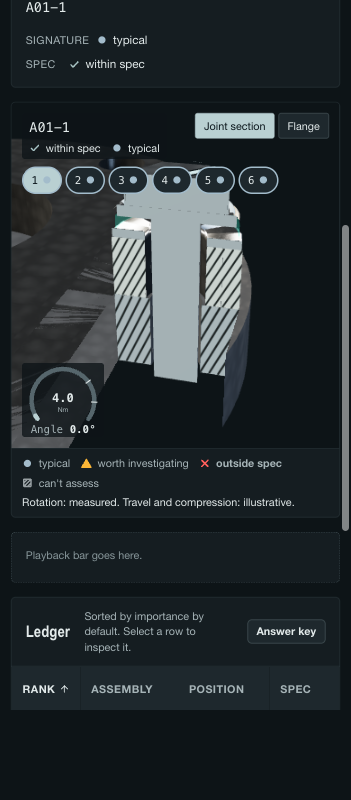
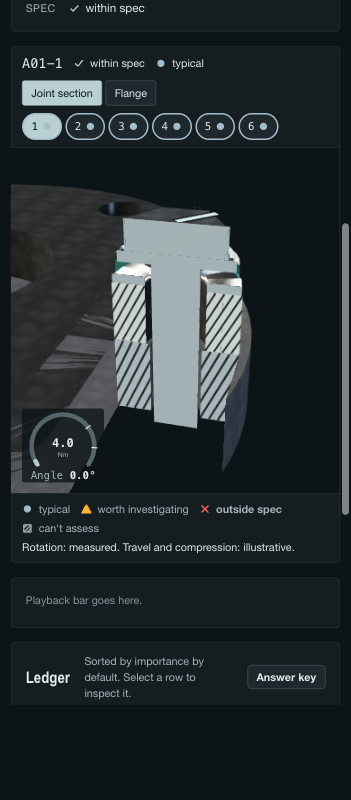
fix(torque): move joint header out of canvas, camera tween fixes, presetPose tests

diff --git a/apps/torque-signature-analyser/web/src/scene/CameraRig.jsx b/apps/torque-signature-analyser/web/src/scene/CameraRig.jsx
@@ -2,36 +2,7 @@ import { useEffect, useRef } from 'react';
 import { useFrame, useThree } from '@react-three/fiber';
 import { OrbitControls } from '@react-three/drei';
 import * as THREE from 'three';
-import { slotAngle, slotPosition } from './Flange.jsx';
-
-const FOV = 32;
-// Joint-section stack, local y: bolt tip -0.7 up to ~30% of the (shortened) socket, with a 10% margin.
-const STACK = { bottom: -0.7, top: 5.6, width: 3.6 };
-
-export function presetPose(preset, focus, aspect = 1.5) {
-  if (preset === 'section' && focus != null) {
-    const a = slotAngle(focus);
-    const P = slotPosition(focus);
-    const R = new THREE.Vector3(Math.cos(a), 0, Math.sin(a));
-    const T = new THREE.Vector3(-Math.sin(a), 0, Math.cos(a));
-    const h = (STACK.top - STACK.bottom) * 1.1;
-    const half = Math.tan((FOV * Math.PI) / 360);
-    const dist = Math.max(h / (2 * half), (STACK.width * 1.2) / (2 * half * aspect)) * 1.06;
-    // Cut side towards the viewer, a little elevation and a slight side turn for a 3/4 read.
-    const dir = T.clone().addScaledVector(R, 0.25).setY(0.55).normalize();
-    const target = P.clone().setY((STACK.top + STACK.bottom) / 2);
-    return { target, position: target.clone().addScaledVector(dir, dist) };
-  }
-  if (focus != null) {
-    // View from the cut side, aimed between the hub and the selected bolt so it sits inside the frame.
-    const a = slotAngle(focus);
-    const R = new THREE.Vector3(Math.cos(a), 0, Math.sin(a));
-    const T = new THREE.Vector3(-Math.sin(a), 0, Math.cos(a));
-    const target = R.clone().multiplyScalar(2.4).setY(1.8);
-    return { target, position: target.clone().addScaledVector(T, 17).addScaledVector(R, -4).setY(17) };
-  }
-  return { target: new THREE.Vector3(0, 1.5, 0), position: new THREE.Vector3(0, 20, 18) };
-}
+import { presetPose } from './camera.js';
 
 /** Bounded orbit (no pan, no auto-rotate) with preset moves. Orbiting never touches the cursor. */
 export default function CameraRig({ preset, focus, reducedMotion }) {
@@ -50,6 +21,7 @@ export default function CameraRig({ preset, focus, reducedMotion }) {
     if (!c) return;
     if (first.current || reducedMotion || resized) {
       first.current = false;
+      anim.current = null;
       camera.position.copy(to.position);
       c.target.copy(to.target);
       c.update();
@@ -59,6 +31,13 @@ export default function CameraRig({ preset, focus, reducedMotion }) {
     anim.current = { t: 0, fromPos: camera.position.clone(), fromTarget: c.target.clone(), to };
     invalidate();
   }, [preset, focus, aspect, reducedMotion, camera, invalidate]);
+
+  if (import.meta.env?.DEV && typeof window !== 'undefined') {
+    window.__tsaCam = () => ({
+      pos: camera.position.toArray(), target: controls.current?.target.toArray(), aspect, size: [size.width, size.height],
+      anim: Boolean(anim.current), expected: Object.fromEntries(Object.entries(presetPose(preset, focus, aspect)).map(([k, v]) => [k, v.toArray()])),
+    });
+  }
 
   useFrame((_, dt) => {
     const a = anim.current;
@@ -70,7 +49,7 @@ export default function CameraRig({ preset, focus, reducedMotion }) {
     c.target.lerpVectors(a.fromTarget, a.to.target, k);
     c.update();
     if (a.t >= 1) anim.current = null;
-    else invalidate();
+    invalidate(); // keep rendering every frame until the tween has landed, then one final frame
   });
 
   return (

diff --git a/apps/torque-signature-analyser/web/src/scene/JointScene.jsx b/apps/torque-signature-analyser/web/src/scene/JointScene.jsx
@@ -5,7 +5,7 @@ import * as THREE from 'three';
 import Bolt, { Washer, WASHER } from './Bolt.jsx';
 import Flange, { FLANGE, slotAngle, slotPosition } from './Flange.jsx';
 import CameraRig from './CameraRig.jsx';
-import Overlay, { JointStrip } from './Overlay.jsx';
+import Overlay, { JointHeader, JointStrip } from './Overlay.jsx';
 import { createMaterials, tokenColor } from './materials.js';
 import { boltSlots, jointPose, statusKind } from './kinematics.js';
 
@@ -162,6 +162,15 @@ function JointView({ result, selected, cursor, onSelect }) {
 
   return (
     <div className="joint-wrap">
+    <JointHeader
+      selected={selected}
+      preset={focus == null ? 'flange' : preset}
+      onPreset={setPreset}
+      slots={slots}
+      selectedId={selected?.id}
+      onSelect={onSelect}
+      note={note ?? (overflow.length ? `${overflow.length} extra bolt(s) in this assembly are not drawn. Use the ledger.` : null)}
+    />
     <div className="joint" ref={box}>
       <Canvas
         dpr={[1, 2]}
@@ -182,18 +191,7 @@ function JointView({ result, selected, cursor, onSelect }) {
           onSelect={onSelect}
         />
       </Canvas>
-      <Overlay
-        selected={selected}
-        pose={pose}
-        torqueMax={torqueMax}
-        spec={spec}
-        preset={focus == null ? 'flange' : preset}
-        onPreset={setPreset}
-        slots={slots}
-        selectedId={selected?.id}
-        onSelect={onSelect}
-        note={note ?? (overflow.length ? `${overflow.length} extra bolt(s) in this assembly are not drawn. Use the ledger.` : null)}
-      />
+      <Overlay pose={pose} torqueMax={torqueMax} spec={spec} />
     </div>
     <JointStrip />
     </div>

diff --git a/apps/torque-signature-analyser/web/src/scene/camera.js b/apps/torque-signature-analyser/web/src/scene/camera.js
@@ -1,0 +1,32 @@
+import * as THREE from 'three';
+import { slotAngle, slotPosition } from './flangeLayout.js';
+
+export const FOV = 32;
+// Joint-section stack, local y: bolt tip -0.7 up to ~30% of the (shortened) socket, with a 10% margin.
+export const STACK = { bottom: -0.7, top: 5.6, width: 3.6 };
+
+export function presetPose(preset, focus, aspect = 1.5) {
+  if (preset === 'section' && focus != null) {
+    const a = slotAngle(focus);
+    const P = slotPosition(focus);
+    const R = new THREE.Vector3(Math.cos(a), 0, Math.sin(a));
+    const T = new THREE.Vector3(-Math.sin(a), 0, Math.cos(a));
+    const h = (STACK.top - STACK.bottom) * 1.1;
+    const half = Math.tan((FOV * Math.PI) / 360);
+    const dist = Math.max(h / (2 * half), (STACK.width * 1.2) / (2 * half * aspect)) * 1.06;
+    // Cut side towards the viewer, a little elevation and a slight side turn for a 3/4 read.
+    const dir = T.clone().addScaledVector(R, 0.25).setY(0.55).normalize();
+    const target = P.clone().setY((STACK.top + STACK.bottom) / 2);
+    return { target, position: target.clone().addScaledVector(dir, dist) };
+  }
+  if (focus != null) {
+    // View from the cut side, aimed between the hub and the selected bolt so it sits inside the frame.
+    const a = slotAngle(focus);
+    const R = new THREE.Vector3(Math.cos(a), 0, Math.sin(a));
+    const T = new THREE.Vector3(-Math.sin(a), 0, Math.cos(a));
+    const target = R.clone().multiplyScalar(2.4).setY(1.8);
+    return { target, position: target.clone().addScaledVector(T, 17).addScaledVector(R, -4).setY(17) };
+  }
+  return { target: new THREE.Vector3(0, 1.5, 0), position: new THREE.Vector3(0, 20, 18) };
+}
+

diff --git a/apps/torque-signature-analyser/web/tests/camera.test.js b/apps/torque-signature-analyser/web/tests/camera.test.js
@@ -1,0 +1,34 @@
+import test from 'node:test';
+import assert from 'node:assert/strict';
+import * as THREE from 'three';
+import { presetPose, FOV, STACK } from '../src/scene/camera.js';
+import { slotAngle, slotPosition } from '../src/scene/flangeLayout.js';
+
+function project(cam, v) {
+  return v.clone().project(cam);
+}
+
+for (const aspect of [0.6, 0.9, 1.3, 1.8, 2.4]) {
+  for (const slot of [0, 2, 5]) {
+    test(`section preset fits the stack at aspect ${aspect}, slot ${slot}`, () => {
+      const pose = presetPose('section', slot, aspect);
+      const cam = new THREE.PerspectiveCamera(FOV, aspect, 0.5, 120);
+      cam.position.copy(pose.position);
+      cam.lookAt(pose.target);
+      cam.updateMatrixWorld(true);
+      cam.updateProjectionMatrix();
+      const P = slotPosition(slot);
+      const R = new THREE.Vector3(Math.cos(slotAngle(slot)), 0, Math.sin(slotAngle(slot)));
+      const top = project(cam, P.clone().setY(STACK.top));
+      const bottom = project(cam, P.clone().setY(STACK.bottom));
+      const axis = project(cam, P.clone().setY((STACK.top + STACK.bottom) / 2));
+      assert.ok(top.y <= 0.9 && top.y >= -0.9, `top y ${top.y}`);
+      assert.ok(bottom.y <= 0.9 && bottom.y >= -0.9, `bottom y ${bottom.y}`);
+      assert.ok(Math.abs(axis.x) <= 0.1, `axis x ${axis.x}`);
+      for (const s of [-1, 1]) {
+        const side = project(cam, P.clone().addScaledVector(R, (s * STACK.width) / 2).setY(1));
+        assert.ok(Math.abs(side.x) <= 1, `side x ${side.x}`);
+      }
+    });
+  }
+}

diff --git a/apps/torque-signature-analyser/web/src/scene/Overlay.jsx b/apps/torque-signature-analyser/web/src/scene/Overlay.jsx
@@ -44,9 +44,10 @@ export function JointStrip() {
   );
 }
 
-export default function Overlay({ selected, pose, torqueMax, spec, preset, onPreset, slots, selectedId, onSelect, note }) {
+/** Selected bolt, preset buttons, bolt chips and notes. Rendered above the canvas, never over the joint. */
+export function JointHeader({ selected, preset, onPreset, slots, selectedId, onSelect, note }) {
   return (
-    <div className="joint-overlay">
+    <div className="joint-header">
       <div className="joint-top">
         <div className="joint-id">
           <span className="mono joint-name">{selected?.id ?? 'No rundown'}</span>
@@ -77,7 +78,14 @@ export default function Overlay({ selected, pose, torqueMax, spec, preset, onPre
         </ul>
       )}
       {note && <p className="joint-note" role="status">{note}</p>}
+    </div>
+  );
+}
 
+/** Small gauge in the bottom-left corner of the canvas. */
+export default function Overlay({ pose, torqueMax, spec }) {
+  return (
+    <div className="joint-overlay">
       <div className="joint-bottom">
         <div className="joint-gauge">
           <Gauge torque={pose.torque} max={torqueMax} spec={spec} />

diff --git a/apps/torque-signature-analyser/web/src/scene/Flange.jsx b/apps/torque-signature-analyser/web/src/scene/Flange.jsx
@@ -1,9 +1,9 @@
 import * as THREE from 'three';
 
 // Units: 1 = 10 mm. Wheel-hub flange (cast) with a mating plate (steel) clamped on top. Axis = +y.
-export const FLANGE = { baseT: 1.8, topT: 1.4, baseR: 7.2, topR: 6.6, circle: 5.6, holeTop: 0.66, holeBase: 0.58, window: 1.4 };
-export const slotAngle = (slot) => (slot * Math.PI) / 3;
-export const slotPosition = (slot) => new THREE.Vector3(Math.cos(slotAngle(slot)) * FLANGE.circle, 0, Math.sin(slotAngle(slot)) * FLANGE.circle);
+import { FLANGE, slotAngle, slotPosition } from './flangeLayout.js';
+
+export { FLANGE, slotAngle, slotPosition };
 
 const cache = {};
 function plateGeometry(key, outerR, boreR, holeR, depth) {

diff --git a/apps/torque-signature-analyser/web/src/app.css b/apps/torque-signature-analyser/web/src/app.css
@@ -252,3 +252,9 @@ button, input, select { font: inherit; color: inherit; }
 
 .joint-strip .joint-legend { margin: 0; }
 .joint-bottom { justify-content: flex-start; }
+
+.joint-header { display: grid; gap: var(--space-xs); padding: var(--space-xs) var(--space-sm); border-bottom: 1px solid var(--color-rule); }
+.joint-header .joint-top { align-items: center; }
+.joint-header .joint-id { background: none; padding: 0; grid-auto-flow: column; align-items: center; gap: var(--space-sm); }
+.joint-header .joint-note { background: none; padding: 0; }
+.joint-overlay { justify-content: flex-end; }

diff --git a/apps/torque-signature-analyser/web/src/scene/flangeLayout.js b/apps/torque-signature-analyser/web/src/scene/flangeLayout.js
@@ -1,0 +1,6 @@
+import * as THREE from 'three';
+
+// Units: 1 = 10 mm. Shared by the flange meshes, the clipping planes and the camera presets.
+export const FLANGE = { baseT: 1.8, topT: 1.4, baseR: 7.2, topR: 6.6, circle: 5.6, holeTop: 0.66, holeBase: 0.58, window: 1.4 };
+export const slotAngle = (slot) => (slot * Math.PI) / 3;
+export const slotPosition = (slot) => new THREE.Vector3(Math.cos(slotAngle(slot)) * FLANGE.circle, 0, Math.sin(slotAngle(slot)) * FLANGE.circle);
